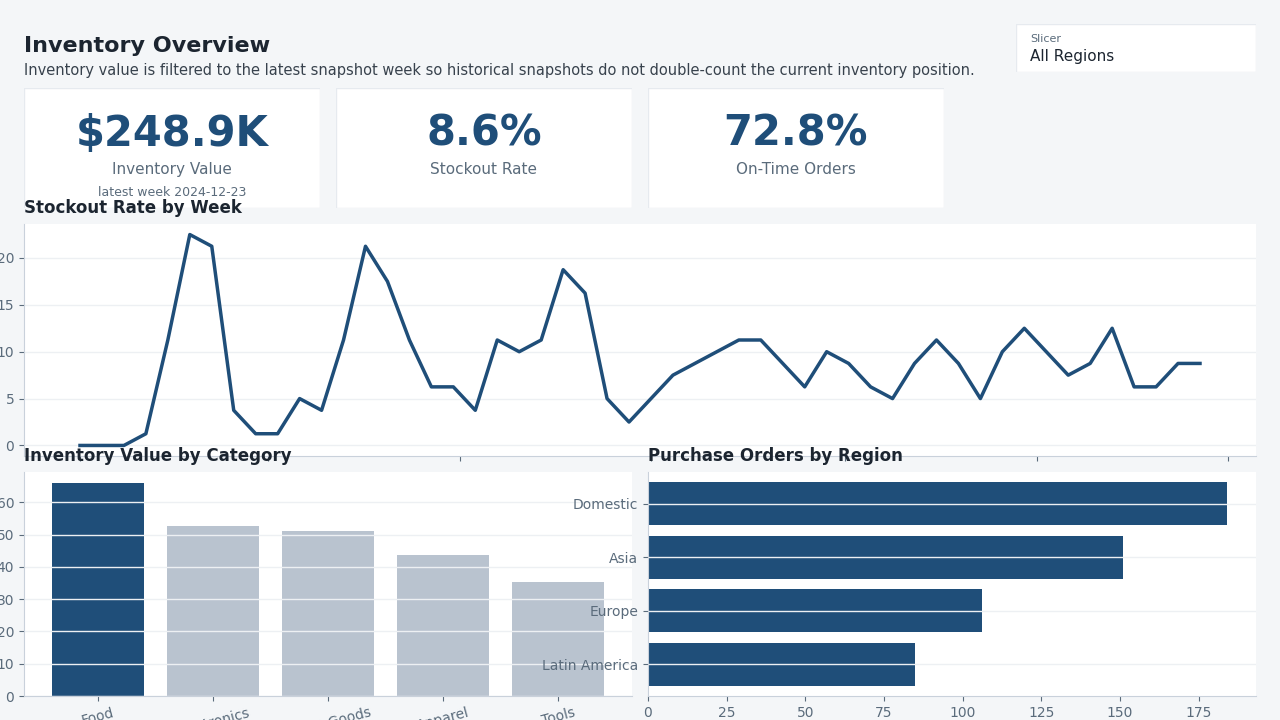
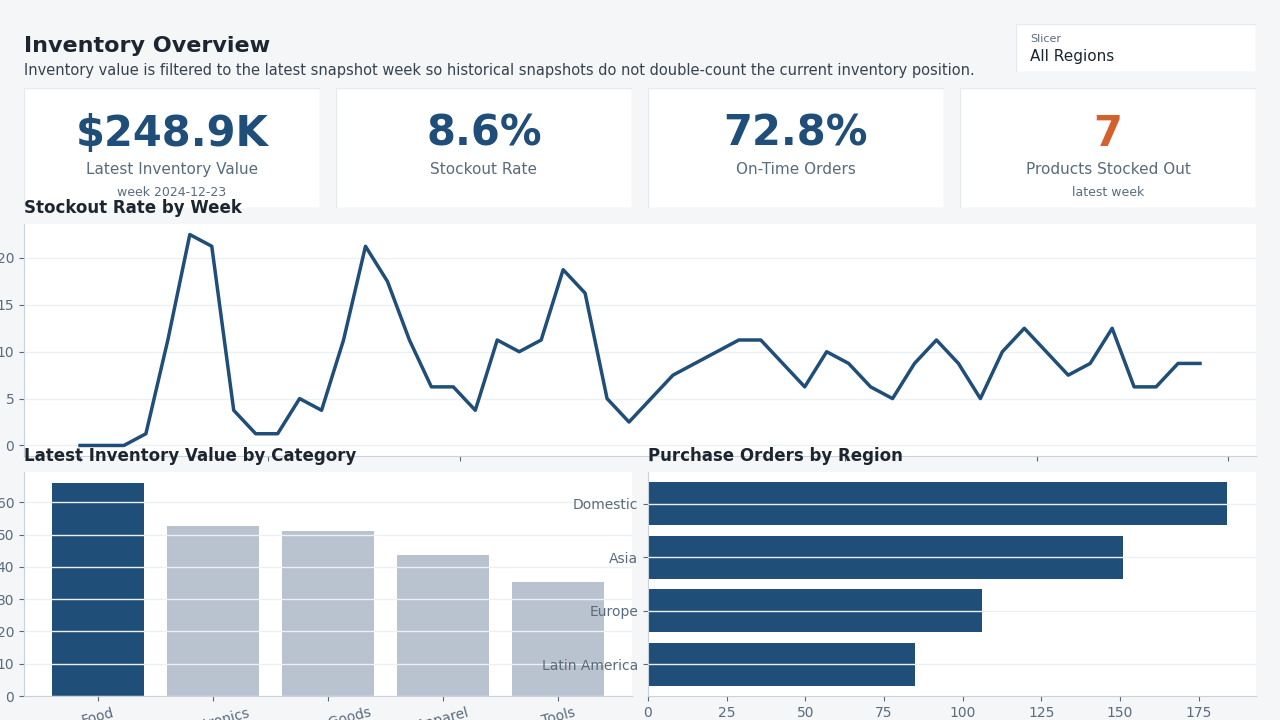
Refresh Power BI dashboard preview images

Changed region(s): [[0.0625, 0.2139, 0.2188, 0.275], [0.8125, 0.1528, 0.9375, 0.275], [0.0312, 0.6111, 0.2812, 0.6417]]

diff --git a/tools/generate_powerbi_dashboard_previews.py b/tools/generate_powerbi_dashboard_previews.py
@@ -123,13 +123,17 @@ def industry_overview():
     totals = oee_frame(production.assign(all="all"), ["all"]).iloc[0]
     by_month = production.groupby("year_month", as_index=False)["downtime_minutes"].sum()
     by_line = oee_frame(production, ["line_name"]).sort_values("oee", ascending=True)
+    by_line["oee_gap"] = by_line["oee"] - 0.85
+    by_line["downtime_rate"] = by_line["downtime"] / by_line["planned"]
+    by_line["defect_rate"] = by_line["defects"] / by_line["units"]
     units = production.groupby("line_name", as_index=False)["units_produced"].sum().sort_values("units_produced")
+    lines_below_target = int((by_line["oee"] < 0.85).sum())
     fig = figure()
     add_header(fig, "Operations Overview")
     add_card(fig, 1, f"{totals.oee:.1%}", "OEE", f"{totals.oee - 0.85:+.1%} vs 85% target", "good" if totals.oee >= 0.85 else "bad")
     add_card(fig, 2, f"{totals.availability:.1%}", "Availability", f"{totals.availability - 0.90:+.1%} vs 90% target", "good" if totals.availability >= 0.90 else "bad")
     add_card(fig, 3, f"{totals.performance:.1%}", "Performance")
-    add_card(fig, 4, f"{totals.quality:.1%}", "Quality", f"{totals.quality - 0.99:+.1%} vs 99% target", "good" if totals.quality >= 0.99 else "bad")
+    add_card(fig, 4, f"{lines_below_target}", "Lines Below Target", "OEE < 85%", "bad" if lines_below_target else "good")
     add_finding(fig, "Downtime is not evenly distributed through the year; the monthly view keeps the OEE story tied to operating time lost.")
     ax = fig.add_axes(rect(24, 224, 1232, 232))
     style(ax, "Downtime Minutes by Month")
@@ -144,9 +148,24 @@ def industry_overview():
     ax1.text(85.5, len(by_line) - 0.8, "World class", color=MUTED, fontsize=9)
     ax1.set_xlabel("OEE %", color=MUTED)
     ax2 = fig.add_axes(rect(648, 472, 608, 224))
-    style(ax2, "Total Units by Line")
-    horizontal_bars_with_inside_labels(ax2, units["line_name"], units["units_produced"], [ACCENT] * len(units))
-    ax2.set_xlabel("Units", color=MUTED)
+    ax2.axis("off")
+    detail = by_line.merge(units, on="line_name")
+    cell_text = [
+        [r.line_name, f"{r.oee:.1%}", f"{r.oee_gap:+.1%}", f"{r.downtime_rate:.1%}", f"{r.defect_rate:.1%}", f"{r.units_produced:,.0f}"]
+        for r in detail.itertuples()
+    ]
+    tbl = ax2.table(cellText=cell_text, colLabels=["Line", "OEE", "Gap", "Downtime", "Defects", "Units"], cellLoc="center", loc="center")
+    tbl.auto_set_font_size(False)
+    tbl.set_fontsize(8)
+    tbl.scale(1, 1.22)
+    for (row, col), cell in tbl.get_celld().items():
+        cell.set_edgecolor(LIGHT_GREY)
+        cell.set_facecolor(BG if row == 0 else WHITE)
+        if row == 0:
+            cell.set_text_props(weight="bold", color=INK)
+        elif cell_text[row - 1][0] == "Line 3" and col in [1, 2, 3]:
+            cell.set_facecolor("#F6E9E3")
+    ax2.set_title("Operating Detail", loc="left", fontsize=12, fontweight="bold", color=INK, pad=8)
     save(fig, ROOT / "industry_operations_cost" / "images" / "overview.png")
 
 
@@ -154,6 +173,7 @@ def industry_oee_breakdown():
     _, production, _ = industry()
     by_line = oee_frame(production, ["line_name", "area"]).sort_values("oee")
     reason = production.groupby("downtime_reason", as_index=False)["downtime_minutes"].sum().sort_values("downtime_minutes", ascending=True)
+    top_reason = reason.sort_values("downtime_minutes", ascending=False).iloc[0]
     pivot = production.pivot_table(index="downtime_reason", columns="line_name", values="downtime_minutes", aggfunc="sum").fillna(0)
     pivot = pivot.loc[pivot.sum(axis=1).sort_values(ascending=True).index]
     fig = figure()
@@ -161,15 +181,16 @@ def industry_oee_breakdown():
     add_card(fig, 1, "Line 3", "Lowest OEE Line")
     add_card(fig, 2, f"{by_line.iloc[0].availability:.1%}", "Line 3 Availability", "main gap vs peers", "bad")
     add_card(fig, 3, f"{by_line.iloc[0].performance:.1%}", "Line 3 Performance")
-    add_card(fig, 4, f"{by_line.iloc[0].quality:.1%}", "Line 3 Quality")
+    add_card(fig, 4, top_reason["downtime_reason"], "Top Downtime Reason")
     add_finding(fig, "Line 3 sits at 73.4% OEE. The gap is availability, not speed or defects - a downtime problem, not a quality problem.")
     ax = fig.add_axes(rect(24, 224, 1232, 232))
     ax.axis("off")
     table = by_line.copy()
     table[["availability", "performance", "quality", "oee"]] *= 100
     display = table[["line_name", "area", "availability", "performance", "quality", "oee"]]
-    cell_text = [[r.line_name, r.area, f"{r.availability:.1f}%", f"{r.performance:.1f}%", f"{r.quality:.1f}%", f"{r.oee:.1f}%"] for r in display.itertuples()]
-    tbl = ax.table(cellText=cell_text, colLabels=["Line", "Area", "Availability", "Performance", "Quality", "OEE"], cellLoc="center", loc="center")
+    display["gap"] = display["oee"] - 85
+    cell_text = [[r.line_name, r.area, f"{r.availability:.1f}%", f"{r.performance:.1f}%", f"{r.quality:.1f}%", f"{r.oee:.1f}%", f"{r.gap:+.1f}%"] for r in display.itertuples()]
+    tbl = ax.table(cellText=cell_text, colLabels=["Line", "Area", "Availability", "Performance", "Quality", "OEE", "Gap"], cellLoc="center", loc="center")
     tbl.auto_set_font_size(False)
     tbl.set_fontsize(10)
     tbl.scale(1, 1.45)
@@ -179,7 +200,7 @@ def industry_oee_breakdown():
             cell.set_facecolor(BG)
             cell.set_text_props(weight="bold", color=INK)
         elif display.iloc[row - 1]["line_name"] == "Line 3":
-            cell.set_facecolor("#F6E9E3" if col in [2, 5] else WHITE)
+            cell.set_facecolor("#F6E9E3" if col in [2, 5, 6] else WHITE)
         else:
             cell.set_facecolor(WHITE)
     ax.set_title("OEE Factors by Line", loc="left", fontsize=12, fontweight="bold", color=INK, pad=8)
@@ -209,12 +230,15 @@ def industry_cost():
     total_cost = costs["amount"].sum()
     total_units = production["units_produced"].sum()
     by_type = costs.groupby("cost_type", as_index=False)["amount"].sum().sort_values("amount", ascending=False)
+    materials_share = by_type.loc[by_type["cost_type"].eq("Materials"), "amount"].sum() / total_cost
+    highest_cost_type = by_type.iloc[0]["cost_type"]
     type_month = costs.pivot_table(index="cost_month", columns="cost_type", values="amount", aggfunc="sum").fillna(0)
     fig = figure()
     add_header(fig, "Cost Analysis")
     add_card(fig, 1, f"${total_cost / 1_000_000:.1f}M", "Total Cost")
     add_card(fig, 2, f"${total_cost / total_units:.2f}", "Cost per Unit")
-    add_card(fig, 3, f"{total_units / 1_000_000:.1f}M", "Total Units")
+    add_card(fig, 3, f"{materials_share:.1%}", "Materials Share")
+    add_card(fig, 4, highest_cost_type, "Highest Cost Type")
     ax = fig.add_axes(rect(24, 224, 608, 232))
     style(ax, "Cost by Type")
     ax.bar(by_type["cost_type"], by_type["amount"] / 1_000, color=[ACCENT] + [GREY] * (len(by_type) - 1))
@@ -262,11 +286,13 @@ def supply_overview():
     latest["inventory_value"] = latest["stock_on_hand"] * latest["unit_cost"]
     weekly = inventory.groupby("snapshot_date", as_index=False).agg(stockout_rate=("stockout", "mean"))
     by_cat = latest.groupby("category", as_index=False)["inventory_value"].sum().sort_values("inventory_value", ascending=False)
+    products_stocked_out = int(latest["stockout"].sum())
     fig = figure()
     add_header(fig, "Inventory Overview", "All Regions")
-    add_card(fig, 1, f"${latest['inventory_value'].sum() / 1000:.1f}K", "Inventory Value", f"latest week {latest_date:%Y-%m-%d}")
+    add_card(fig, 1, f"${latest['inventory_value'].sum() / 1000:.1f}K", "Latest Inventory Value", f"week {latest_date:%Y-%m-%d}")
     add_card(fig, 2, f"{inventory['stockout'].mean():.1%}", "Stockout Rate")
     add_card(fig, 3, f"{orders['on_time'].mean():.1%}", "On-Time Orders")
+    add_card(fig, 4, f"{products_stocked_out}", "Products Stocked Out", "latest week", "bad" if products_stocked_out else "good")
     ax = fig.add_axes(rect(24, 224, 1232, 232))
     style(ax, "Stockout Rate by Week")
     ax.plot(weekly["snapshot_date"], weekly["stockout_rate"] * 100, color=ACCENT, linewidth=2.5)
@@ -274,7 +300,7 @@ def supply_overview():
     ax.set_ylabel("Stockout %", color=MUTED)
     add_finding(fig, "Inventory value is filtered to the latest snapshot week so historical snapshots do not double-count the current inventory position.")
     ax1 = fig.add_axes(rect(24, 472, 608, 224))
-    style(ax1, "Inventory Value by Category")
+    style(ax1, "Latest Inventory Value by Category")
     ax1.bar(by_cat["category"], by_cat["inventory_value"] / 1000, color=[ACCENT] + [GREY] * (len(by_cat) - 1))
     ax1.tick_params(axis="x", rotation=15)
     ax1.set_ylabel("$K", color=MUTED)
@@ -289,24 +315,27 @@ def supply_overview():
 def supply_stockouts():
     _, _, inventory, _ = supply()
     stockout = inventory.groupby(["product_id", "product_name", "category"], as_index=False).agg(stockout_rate=("stockout", "mean"), weeks=("stockout", "count"))
-    top = stockout.sort_values("stockout_rate", ascending=False).head(15)
+    latest = inventory[inventory["snapshot_date"] == inventory["snapshot_date"].max()][["product_id", "stock_on_hand"]]
+    stockout = stockout.merge(latest, on="product_id", how="left")
+    top = stockout.sort_values("stockout_rate", ascending=False).head(10)
     fig = figure()
     add_header(fig, "Stockouts", "All Categories")
     add_finding(fig, f"{top.iloc[0]['product_name']} was stocked out {top.iloc[0]['stockout_rate']:.1%} of tracked weeks, pointing to a reorder point below demand.")
     add_card(fig, 1, top.iloc[0]["product_name"], "Worst Product")
     add_card(fig, 2, f"{top.iloc[0]['stockout_rate']:.1%}", "Worst Stockout Rate", status="bad")
     add_card(fig, 3, f"{stockout['stockout_rate'].mean():.1%}", "Average Product Stockout")
+    add_card(fig, 4, f"{int(stockout['weeks'].sum()):,}", "Tracked Product-Weeks")
     ax = fig.add_axes(rect(24, 224, 1232, 232))
-    style(ax, "Worst 15 Products by Stockout Rate")
+    style(ax, "Worst 10 Products by Stockout Rate")
     plot = top.sort_values("stockout_rate")
     colors = [ACCENT if name == top.iloc[0]["product_name"] else GREY for name in plot["product_name"]]
     horizontal_bars_with_inside_labels(ax, plot["product_name"], plot["stockout_rate"] * 100, colors, xmax=35)
     ax.set_xlabel("Stockout %", color=MUTED)
     ax2 = fig.add_axes(rect(24, 492, 1232, 204))
     ax2.axis("off")
-    display = top[["product_id", "product_name", "category", "stockout_rate"]].copy()
+    display = top[["product_id", "product_name", "category", "weeks", "stockout_rate", "stock_on_hand"]].copy()
     display["stockout_rate"] = display["stockout_rate"].map(lambda v: f"{v:.1%}")
-    tbl = ax2.table(cellText=display.values, colLabels=["Product ID", "Product", "Category", "Stockout Rate"], cellLoc="center", loc="center")
+    tbl = ax2.table(cellText=display.values, colLabels=["Product ID", "Product", "Category", "Weeks", "Stockout Rate", "Latest Stock"], cellLoc="center", loc="center")
     tbl.auto_set_font_size(False)
     tbl.set_fontsize(8)
     tbl.scale(1, 1.05)
@@ -323,6 +352,7 @@ def supply_suppliers():
     perf = orders.dropna(subset=["supplier_name"]).groupby(["supplier_name", "region"], as_index=False).agg(
         total_orders=("po_id", "count"),
         on_time=("on_time", "mean"),
+        late_orders=("on_time", lambda s: (~s).sum()),
     )
     perf = perf.sort_values("on_time", ascending=True)
     fig = figure()
@@ -330,6 +360,7 @@ def supply_suppliers():
     add_card(fig, 1, f"{len(suppliers)}", "Suppliers")
     add_card(fig, 2, f"{orders['on_time'].mean():.1%}", "On-Time Orders")
     add_card(fig, 3, perf.iloc[0]["supplier_name"], "Lowest On-Time Supplier", status="bad")
+    add_card(fig, 4, f"{int((~orders['on_time']).sum()):,}", "Late Orders", status="bad")
     add_finding(fig, f"{perf.iloc[0]['supplier_name']} has the lowest on-time rate, so average lead time alone would hide the reliability risk.")
     ax = fig.add_axes(rect(24, 224, 1232, 232))
     style(ax, "Supplier On-Time %")
@@ -341,7 +372,7 @@ def supply_suppliers():
     ax2.axis("off")
     display = perf.copy()
     display["on_time"] = display["on_time"].map(lambda v: f"{v:.1%}")
-    tbl = ax2.table(cellText=display[["supplier_name", "region", "total_orders", "on_time"]].values, colLabels=["Supplier", "Region", "Total Orders", "On-Time %"], cellLoc="center", loc="center")
+    tbl = ax2.table(cellText=display[["supplier_name", "region", "total_orders", "late_orders", "on_time"]].values, colLabels=["Supplier", "Region", "Total Orders", "Late Orders", "On-Time %"], cellLoc="center", loc="center")
     tbl.auto_set_font_size(False)
     tbl.set_fontsize(8)
     tbl.scale(1, 1.08)
